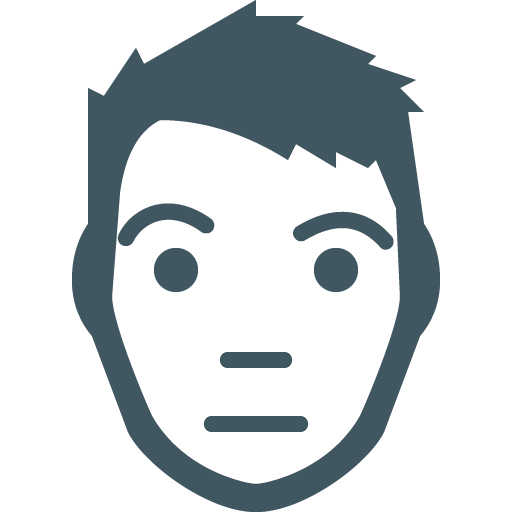
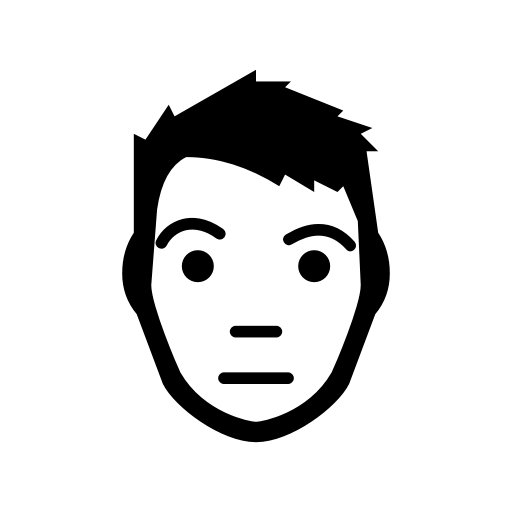
Update repng

diff --git a/src/Padded.js b/src/Padded.js
@@ -3,13 +3,20 @@ const { createElement: h } = require('react')
 const Avatar = require('./Avatar')
 
 module.exports = ({
+  size = 512
 }) => {
   return h('div', {
     style: {
-      padding: 64
+      display: 'flex',
+      alignItems: 'center',
+      justifyContent: 'center',
+      boxSizing: 'border-box',
+      width: size,
+      height: size,
+      padding: size / 8
     }
   },
-    h(Avatar, { size: 512 })
+    h(Avatar, { size: size * 3/4 })
   )
 }
 

diff --git a/svg.js b/svg.js
@@ -1,0 +1,12 @@
+
+const fs = require('fs')
+const path = require('path')
+const { createElement } = require('react')
+const { renderToStaticMarkup } = require('react-dom/server')
+const Avatar = require('./src/Avatar')
+
+const svg = renderToStaticMarkup(createElement(Avatar))
+const filename = path.join(__dirname, 'avatar.svg')
+
+fs.writeFileSync(filename, svg)
+

diff --git a/src/Avatar.js b/src/Avatar.js
@@ -4,9 +4,10 @@ const path = require('./path')
 
 module.exports = ({
   size = 768,
+  pad = true,
   color = '#000'
 }) => h('svg', {
-  viewBox: '0 0 128 128',
+  viewBox: pad ? '-24 -24 176 176' : '0 0 128 128',
   width: size,
   height: size,
   style: {
